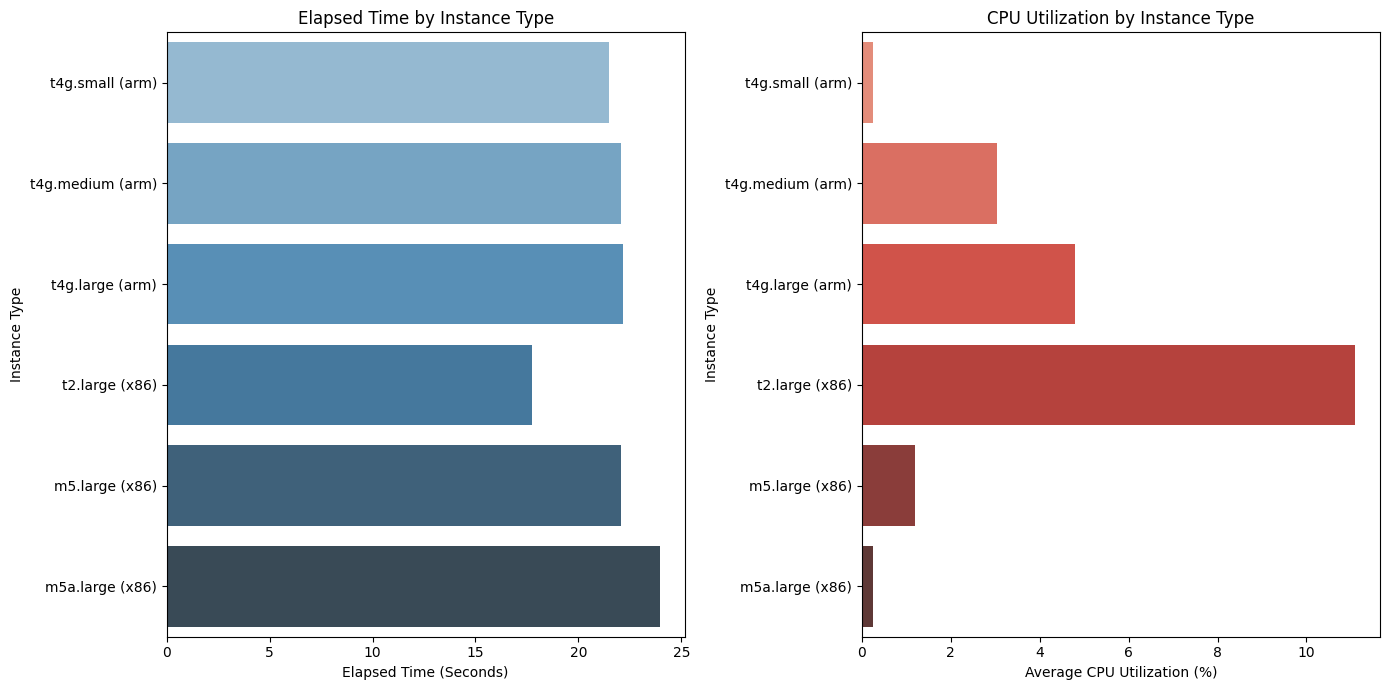
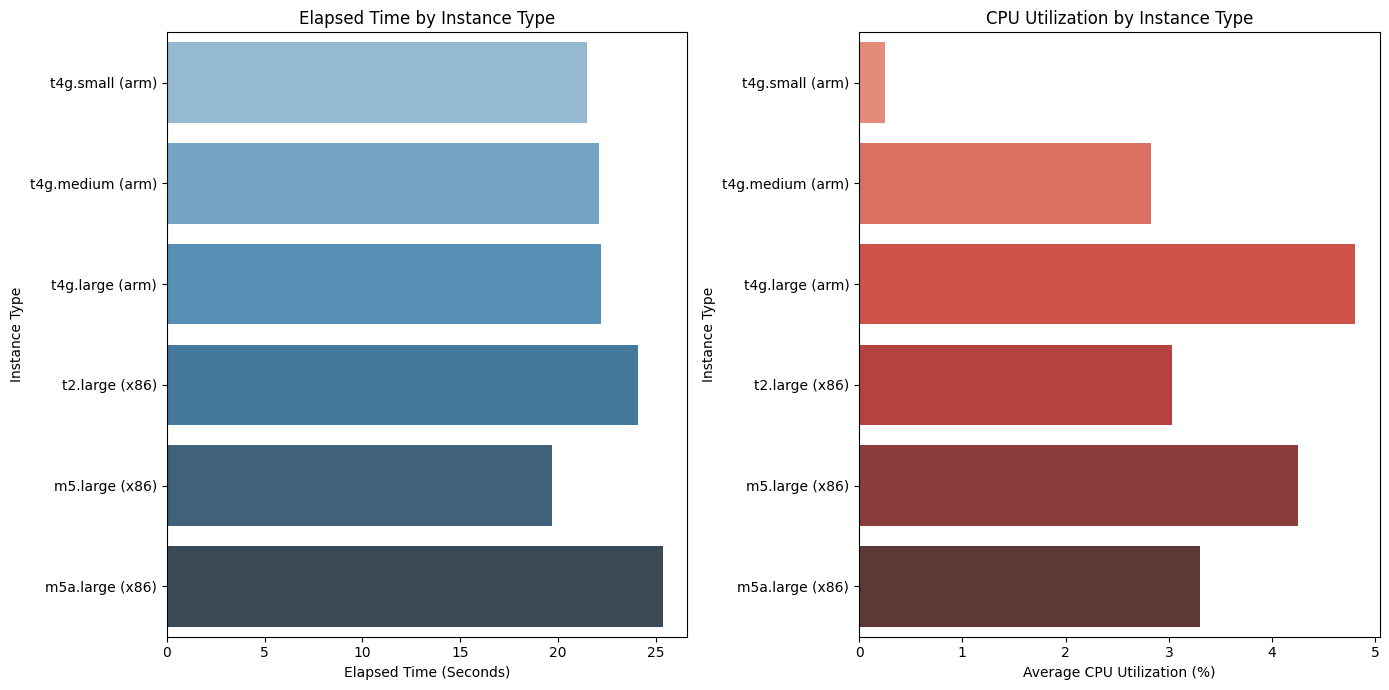
change all

diff --git a/README.md b/README.md
@@ -5,11 +5,11 @@
         <img src='./images/compare_by_chart.png'>
         <img src='./images/image_of_compare.png'>
     </div>
-    <div style="font-weight: 700; font-size: 15px; text-align: left; color: #282d33;"> 그래프와 표를 통해 각 인스턴스 유형에 따른 실행 시간과 CPU 사용률을 비교하고 연관성을 확인할 수 있습니다. 그래프에서 몇 가지 관찰 사항은 다음과 같습니다:<br/><br/>
-    실행 시간: t2.large (x86) 인스턴스가 가장 짧은 실행 시간을 보여주어 작업 처리가 가장 빠른 것으로 나타납니다. 반면에 m5a.large (x86)는 가장 긴 실행 시간을 보여주어 상대적으로 작업 처리 속도가 가장 느린 것으로 보입니다.<br/><br/>
-    CPU 사용률: t2.large (x86) 인스턴스는 높은 CPU 사용률(11.1%)과 낮은 실행 시간을 보여주어, CPU 자원을 효과적으로 활용하여 작업을 빠르게 처리하는 것으로 해석할 수 있습니다. 다른 ARM 기반 인스턴스들은 CPU 사용률이 상대적으로 낮으며, 특히 t4g.small (arm)과 m5a.large (x86)은 0.25%의 매우 낮은 CPU 사용률을 보여줍니다.<br/><br/>
-    아키텍처 차이: ARM 기반의 t4g 시리즈는 일관되게 낮은 CPU 사용률을 보이는 반면, t2.large (x86)와 같은 x86 기반 인스턴스는 더 높은 CPU 사용률을 보입니다. 이는 아키텍처에 따른 성능 차이를 반영할 수 있으며, ARM 인스턴스가 더 효율적인 전력 사용을 보여줄 수 있음을 시사합니다.<br/><br/>
-    비용 대 성능: ARM 인스턴스는 일반적으로 비용 효율성이 높다고 알려져 있습니다. 이 그래프는 비용과 성능 사이의 균형을 찾는데 도움이 될 수 있습니다. 예를 들어, t2.large (x86)가 비교적 높은 성능을 보여주지만 CPU 사용률도 높은 반면, ARM 기반 인스턴스는 낮은 성능에도 불구하고 매우 낮은 CPU 사용률을 보여 비용 효율적일 수 있습니다.<br/><br/>
-    이러한 관찰은 각 인스턴스 유형의 성능 및 비용 효율성을 평가할 때 유용할 수 있습니다. 그러나 이러한 결론을 내리기 위해서는 추가적인 정보가 필요합니다. 예를 들어, 각 인스턴스 유형의 시간당 비용, 워크로드의 성격, 메모리 사용량 및 네트워크 대역폭과 같은 다른 리소스의 사용량을 고려해야 할 수 있습니다. <br/><br/> 
+    <div style="font-weight: 700; font-size: 15px; text-align: left; color: #282d33;"> 그래프와 표를 통해 각 인스턴스 유형에 따른 실행 시간과 CPU 사용률을 비교하고 연관성을 확인할 수 있습니다. 그래프에서 몇 가지 관찰 사항은 아래에 더 자세하게 작성했습니다:<br/><br/>
+    실행 시간: m5.large (x86) 인스턴스가 가장 짧은 실행 시간을 보여줍니다. 이는 일반적으로 높은 컴퓨팅 성능을 나타낼 수 있습니다. 반면에 m5a.large (x86) 인스턴스는 가장 긴 실행 시간을 가지고 있어, 같은 'm5' 계열임에도 성능 차이가 있음을 나타냅니다.<br/><br/>
+    CPU 사용률: t4g.large (arm) 인스턴스는 상대적으로 높은 CPU 사용률과 함께 중간 범위의 실행 시간을 보여줍니다. 이는 작업 처리를 위해 상당량의 CPU를 사용하지만, 그만큼의 성능 향상을 얻지 못하는 것으로 해석될 수 있습니다. t4g.small (arm)과 m5a.large (x86)은 매우 낮은 CPU 사용률을 보여줍니다. 이는 해당 인스턴스들이 CPU 자원을 효율적으로 활용하지 못하고 있거나, 작업이 CPU에 크게 의존하지 않는 것으로 볼 수 있습니다.<br/><br/>
+    아키텍처의 영향: ARM 기반의 t4g 인스턴스들은 일관되게 낮은 CPU 사용률을 보이며, 이는 ARM 아키텍처의 전력 효율성이 더 뛰어날 수 있음을 시사합니다. t2.large (x86)는 x86 아키텍처를 기반으로 하며, ARM 기반 인스턴스와 비교했을 때 상대적으로 높은 CPU 사용률을 보이는 것으로 나타납니다.<br/><br/>
+    성능 대비 비용: t2.large (x86)가 높은 CPU 사용률에도 불구하고 중간 범위의 실행 시간을 가지고 있음을 고려하면, 이 인스턴스 유형은 비용 대비 성능 면에서 덜 효율적일 수 있습니다. 반면, m5.large (x86)는 낮은 실행 시간과 중간 범위의 CPU 사용률을 보여주어 비용 대비 성능이 우수할 가능성이 있습니다.<br/><br/>
+    이러한 관찰 사항은 인스턴스의 선택에 있어서 중요한 역할을 할 수 있으며, 특정 워크로드에 가장 적합한 인스턴스 유형을 결정하는 데 유용한 정보를 제공합니다. 그러나 최종 결정을 내리기 전에는 비용, 네트워크 성능, 메모리 용량, 저장소 성능 등 다른 요소들도 고려해야 된다고 생각합니다. <br/><br/> 
     </div>
 </div>
